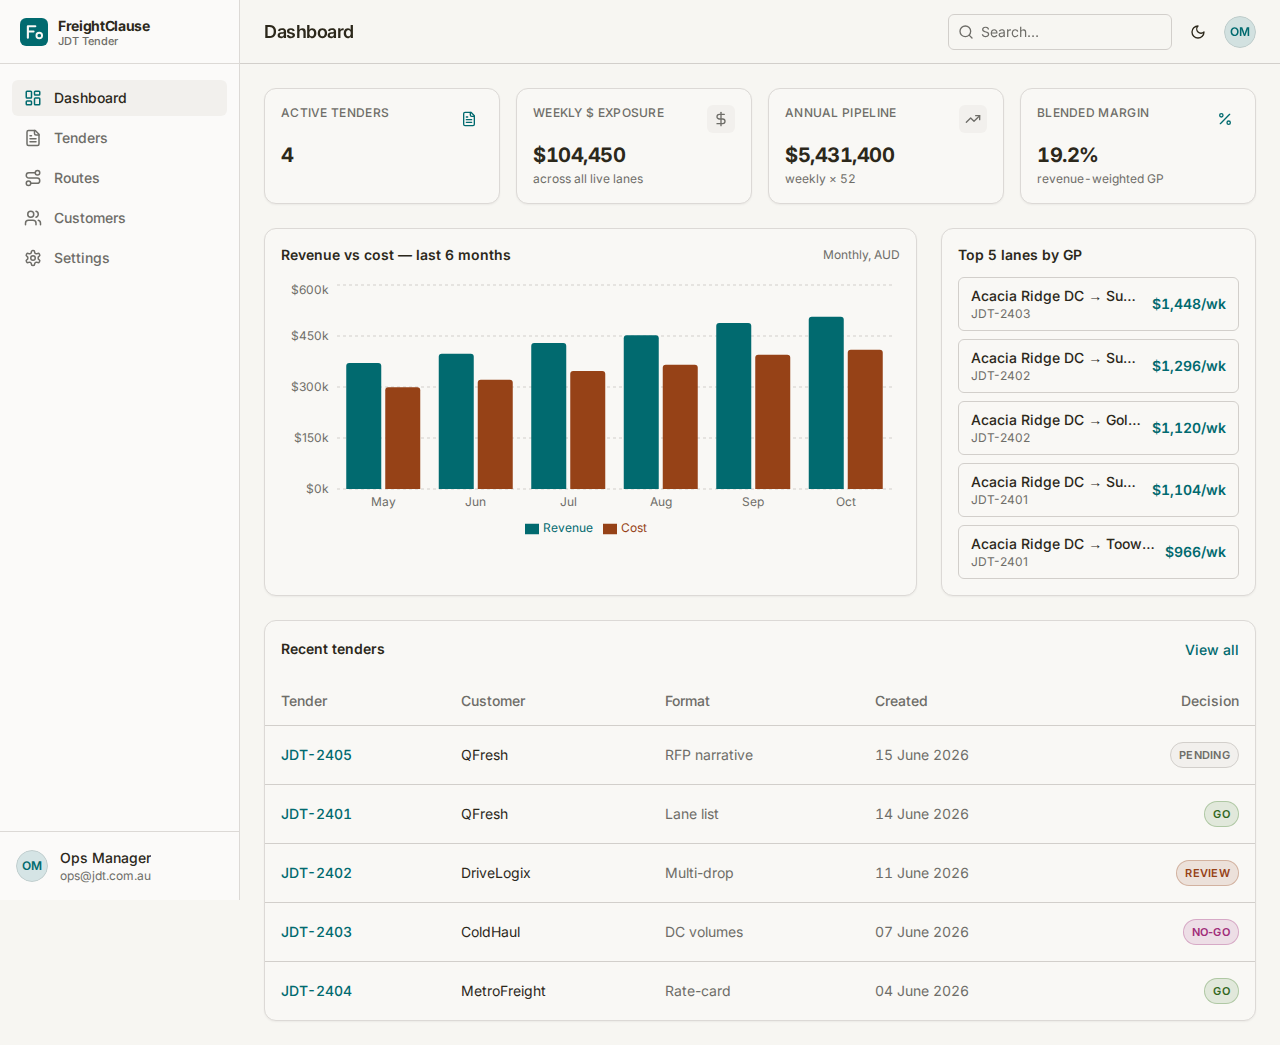
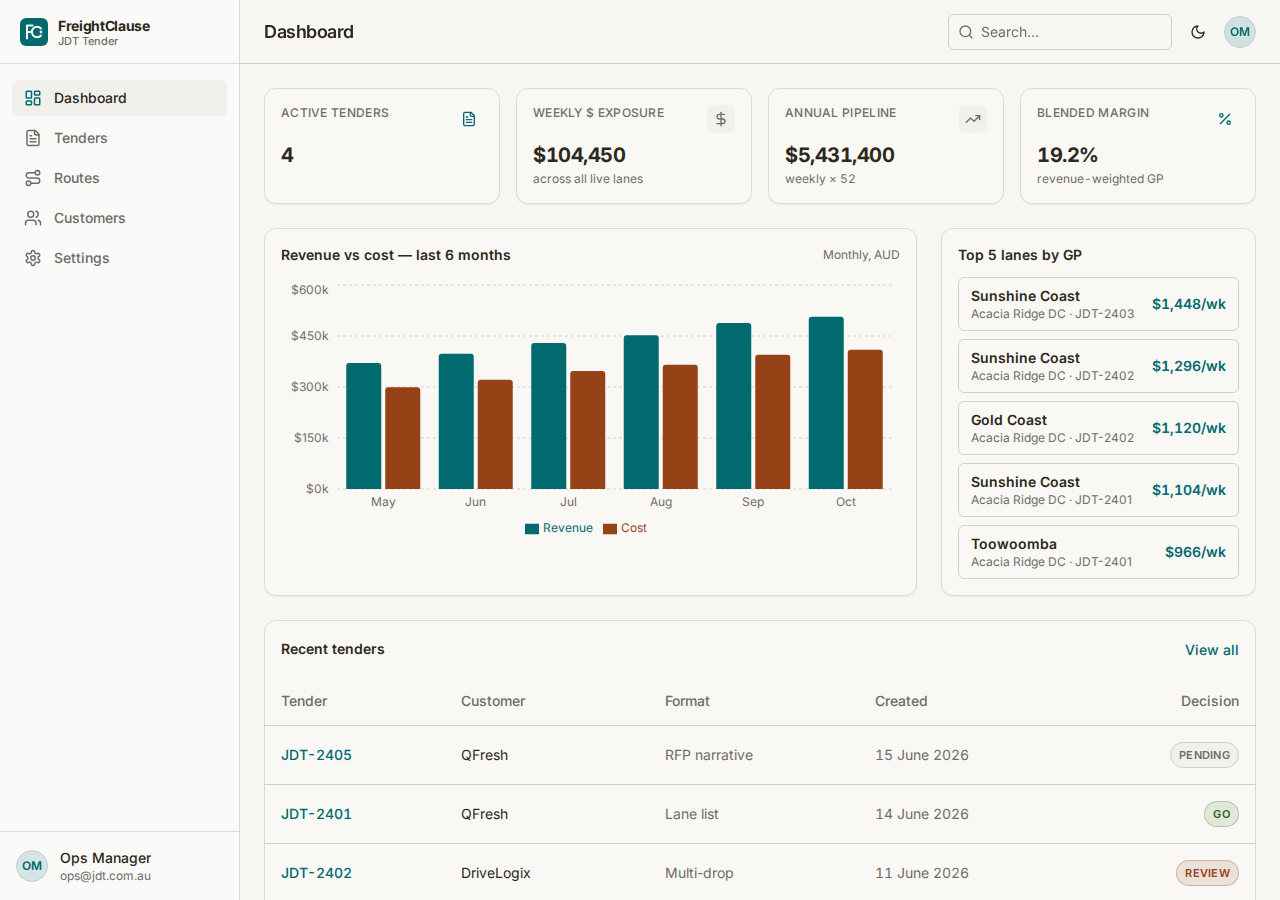
Fix top-lanes card: show destination prominently, no truncation

diff --git a/client/src/pages/dashboard.tsx b/client/src/pages/dashboard.tsx
@@ -17,7 +17,7 @@ import type { Tender } from "@shared/schema";
 
 type Kpis = {
   activeTenders: number; weeklyExposure: number; annualPipeline: number; blendedMargin: number;
-  topLanes: { label: string; gp: number; tenderRef: string }[];
+  topLanes: { label: string; origin: string; destination: string; gp: number; tenderRef: string }[];
   monthly: { month: string; revenue: number; cost: number }[];
   recentTenders: Tender[];
 };
@@ -74,12 +74,12 @@ export default function Dashboard() {
             <h2 className="mb-3 text-sm font-semibold">Top 5 lanes by GP</h2>
             <div className="space-y-2">
               {data?.topLanes.map((l, i) => (
-                <div key={i} className="flex items-center justify-between gap-2 rounded-md border border-border px-3 py-2" data-testid={`row-toplane-${i}`}>
-                  <div className="min-w-0">
-                    <p className="truncate text-sm font-medium">{l.label}</p>
-                    <p className="text-xs text-muted-foreground">{l.tenderRef}</p>
+                <div key={i} className="flex items-center justify-between gap-3 rounded-md border border-border px-3 py-2" data-testid={`row-toplane-${i}`}>
+                  <div className="min-w-0 flex-1">
+                    <p className="truncate text-sm font-semibold" title={l.label}>{l.destination}</p>
+                    <p className="truncate text-xs text-muted-foreground" title={l.label}>{l.origin} · {l.tenderRef}</p>
                   </div>
-                  <span className="tnum text-sm font-semibold text-primary">{aud(l.gp)}/wk</span>
+                  <span className="tnum shrink-0 text-sm font-semibold text-primary">{aud(l.gp)}/wk</span>
                 </div>
               ))}
             </div>

diff --git a/server/routes.ts b/server/routes.ts
@@ -154,7 +154,7 @@ export async function registerRoutes(httpServer: Server, app: Express): Promise<
     const allLanes = await storage.getAllLanes();
     const active = tenders.filter((t) => t.decision !== "no_go").length;
     let weeklyExposure = 0, weeklyCost = 0;
-    const laneGP: Array<{ label: string; gp: number; tenderRef: string }> = [];
+    const laneGP: Array<{ label: string; origin: string; destination: string; gp: number; tenderRef: string }> = [];
     for (const t of tenders) {
       const tl = allLanes.filter((l) => l.tenderId === t.id);
       for (const l of tl) {
@@ -162,7 +162,7 @@ export async function registerRoutes(httpServer: Server, app: Express): Promise<
         const wkCost = l.costPerTrip * l.tripsPerWeek;
         weeklyExposure += wkRev;
         weeklyCost += wkCost;
-        laneGP.push({ label: `${l.origin} → ${l.destination}`, gp: wkRev - wkCost, tenderRef: t.tenderRef });
+        laneGP.push({ label: `${l.origin} → ${l.destination}`, origin: l.origin, destination: l.destination, gp: wkRev - wkCost, tenderRef: t.tenderRef });
       }
     }
     const annualPipeline = weeklyExposure * 52;